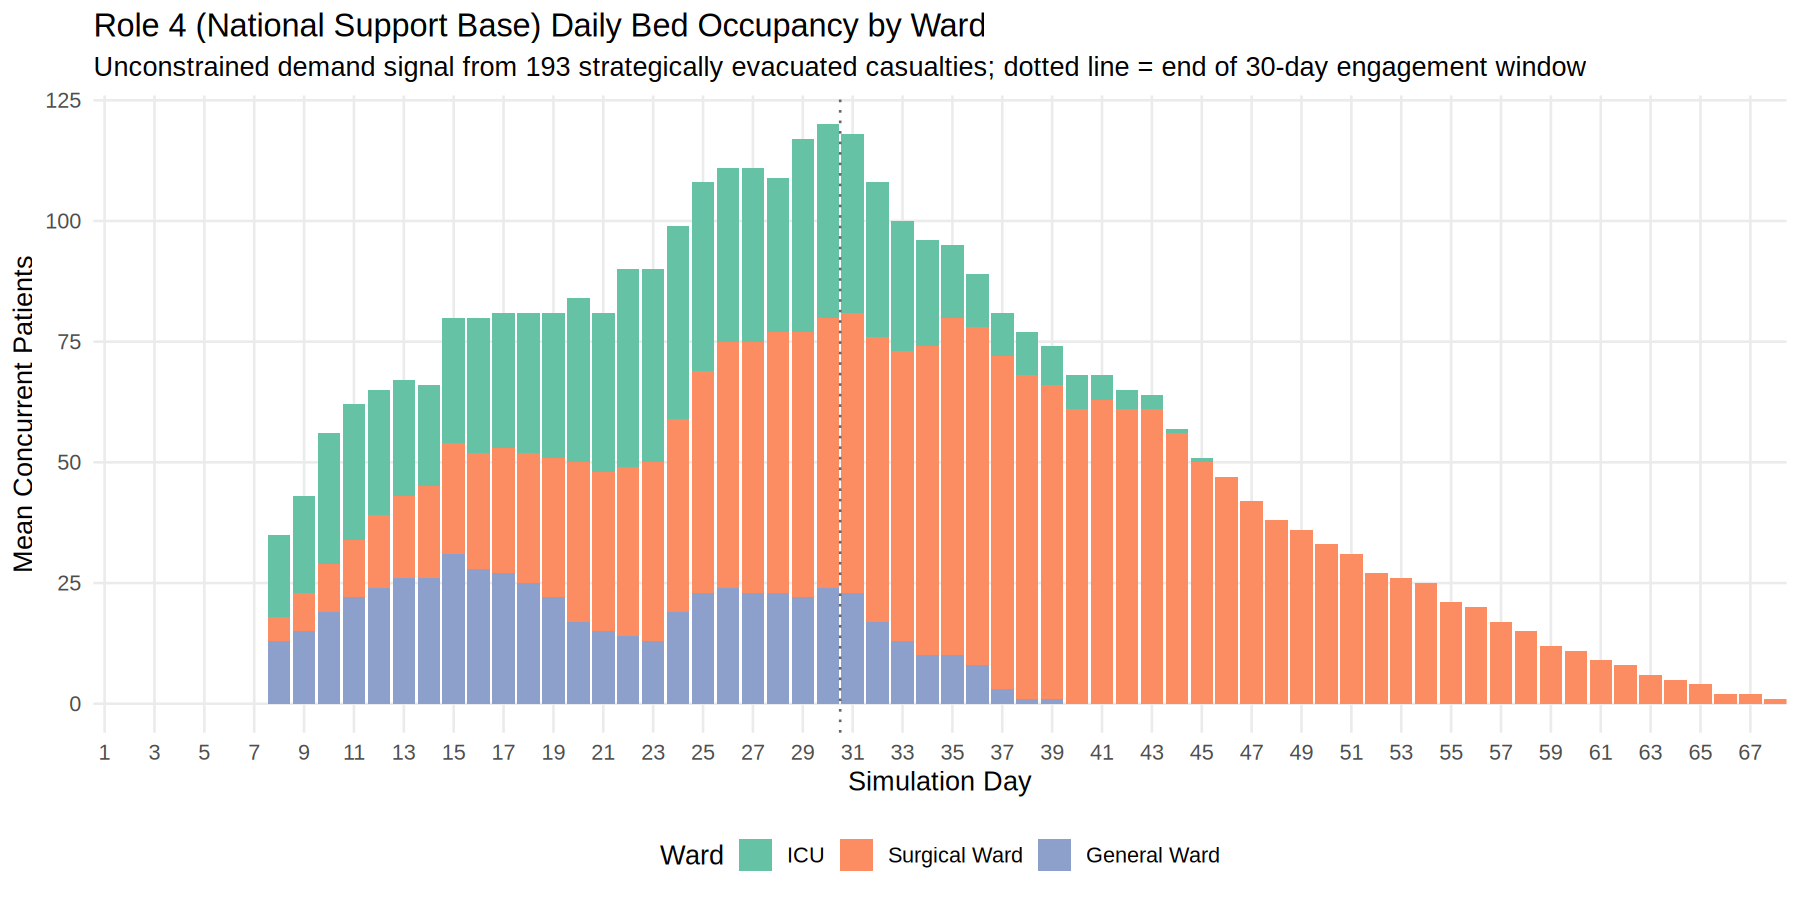
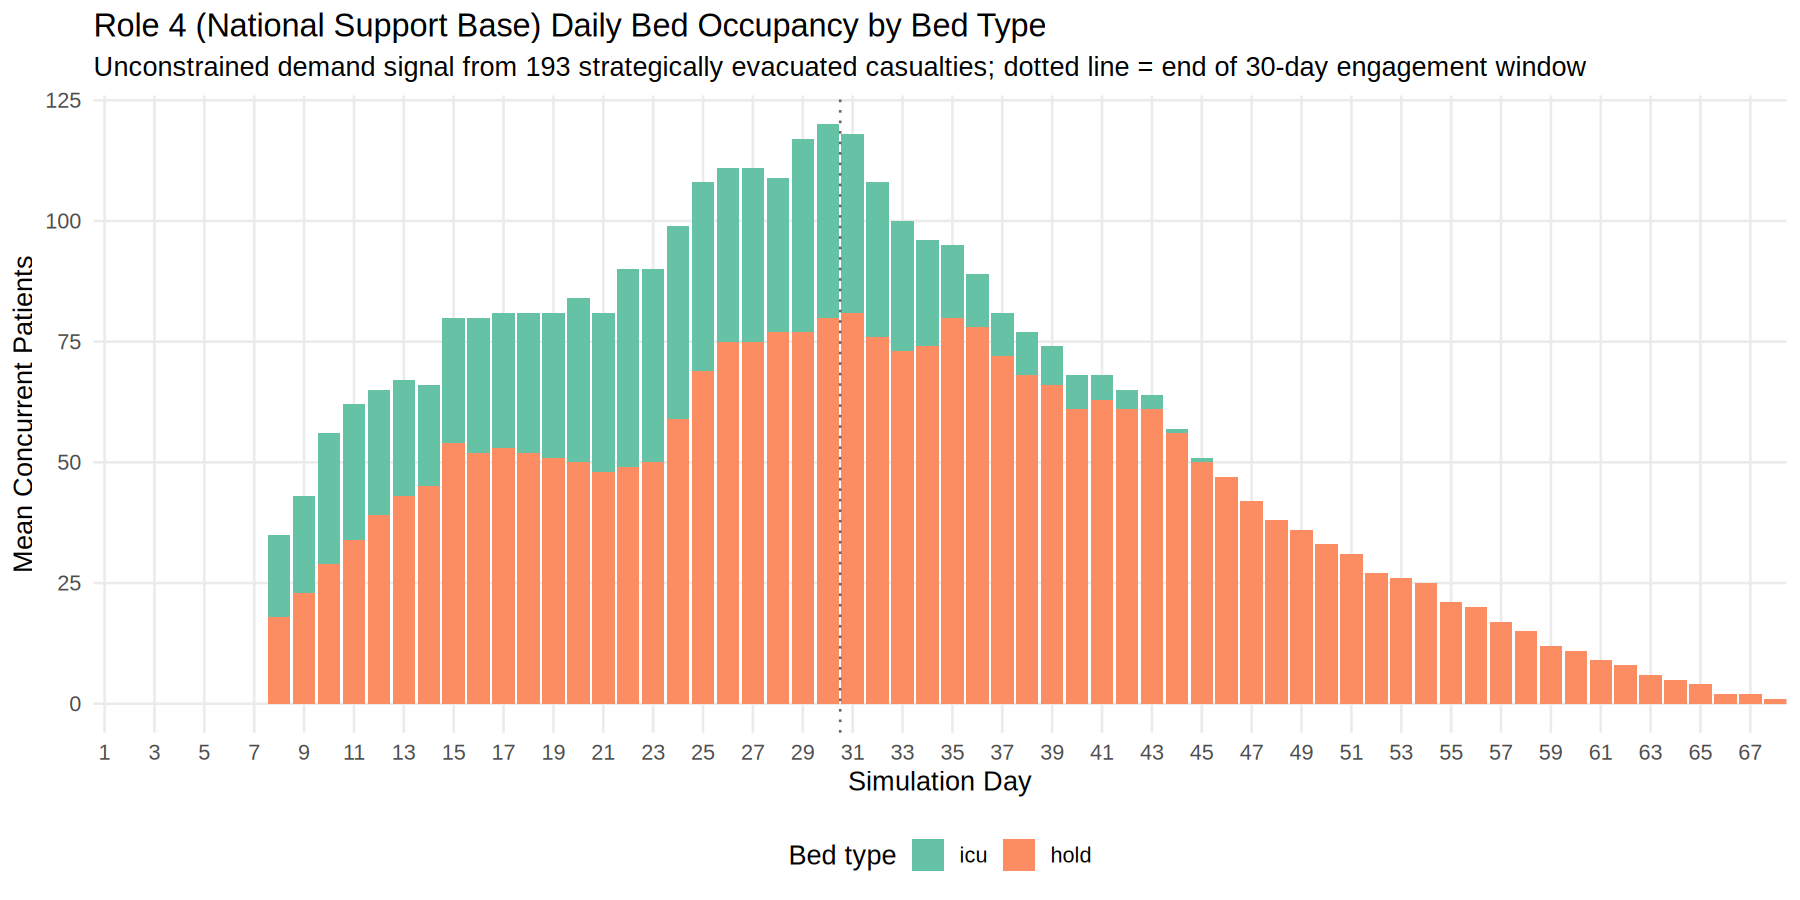
feat(issue-314): report Role 4 demand in the bed types the theatre fields
The Role 4 census reported occupancy under ICU, Surgical Ward and
General Ward. The middle label named a specialty the model does not
represent: evacuation is the last phase of the R2E trajectory, so every
casualty reaching Role 4 has had their definitive repair in theatre and
no surgery happens there. It carried 58.3% of the bed-days.

The census now reports the bed types the deployed echelons field, icu
and hold, rather than a taxonomy of its own. A Role 4 bed sized by this
model is the same kind of bed a forward one is, and naming it otherwise
invites sizing a service rather than an establishment.

Two of the four types the echelons field carry no Role 4 demand and are
absent rather than reported as zero. A casualty arrives by scheduled
sortie having completed post-definitive care, so there is no reception
episode and no resus demand; and no definitive repair is outstanding, so
there is no ot demand. The second absence is a property of the model
rather than of a national support base, which operates on repatriated
casualties repeatedly; L33 records the boundary and #368 tracks it.

Seed-42: intensive care is unchanged at 906 bed-days (25.4%), and the
2,079 surgical and 581 general bed-days collapse into 2,660 holding
(74.6%). The total of 3,566 and the peak of 120.0 are unmoved. The
collapsed distinction rested on a mapping the README recorded as having
no open-access source, so it removed an uncited split rather than
information the model could support.
[…]

Changed region(s): [[0.1244, 0.6222, 0.5911, 0.8089], [0.3733, 0.9333, 0.6844, 0.9956], [0.4978, 0.0, 0.5911, 0.0622]]

diff --git a/README.md b/README.md
@@ -2067,21 +2067,21 @@ When a casualty is assigned to strategic evacuation, the model records the day t
 
 Each evacuated casualty is assigned one of four length-of-stay categories, each a triangular distribution in `env_data.json`. The category sets the Role 4 ward, which R2E bed the casualty occupies while waiting, and which AME pool carries them:
 
-| LoS category    | Assignment criteria                                         | Role 4 ward   | R2E bed while awaiting AME | AME pool       | `env_data.json` key  |
-| --------------- | ----------------------------------------------------------- | ------------- | -------------------------- | -------------- | -------------------- |
-| P1 Surgical     | Priority 1, `treatment_received = 1`                        | ICU           | Hold bed, after a bounded pre-flight ICU period for the ventilated share | `ame_critical` | `los_p1_surgical`    |
-| P1 Non-Surgical | Priority 1, `treatment_received = 0`                        | Surgical Ward | Hold bed                   | `ame`          | `los_p1_nonsurgical` |
-| P2              | Priority 2 (any `treatment_received`)                       | Surgical Ward | Hold bed                   | `ame`          | `los_p2`             |
-| P3 / DNBI       | Priority 3 WIA, or any DNBI casualty regardless of priority | General Ward  | Hold bed                   | `ame`          | `los_p3_dnbi`        |
+| LoS category    | Assignment criteria                                         | Role 4 bed | R2E bed while awaiting AME | AME pool       | `env_data.json` key  |
+| --------------- | ----------------------------------------------------------- | ---------- | -------------------------- | -------------- | -------------------- |
+| P1 Surgical     | Priority 1, `treatment_received = 1`                        | `icu`, stepping down to `hold` | Hold bed, after a bounded pre-flight ICU period for the ventilated share | `ame_critical` | `los_p1_surgical`    |
+| P1 Non-Surgical | Priority 1, `treatment_received = 0`                        | `hold`     | Hold bed                   | `ame`          | `los_p1_nonsurgical` |
+| P2              | Priority 2 (any `treatment_received`)                       | `hold`     | Hold bed                   | `ame`          | `los_p2`             |
+| P3 / DNBI       | Priority 3 WIA, or any DNBI casualty regardless of priority | `hold`     | Hold bed                   | `ame`          | `los_p3_dnbi`        |
 
 Both routes stage in a holding bed, the Casualty Staging Unit equivalent, because every casualty reaching this point has by construction already completed post-operative recovery; the critical and standard split is a distinction in airlift seat type, not in bed type. The exception is the ventilated minority of the critical pool, shipped at 15% and configurable as `critical_hold.ventilated_share`, who genuinely need intensive care up to the point of flight. They hold an ICU bed for 12 to 36 hours, most often 24, and then step down to a holding bed. The bound comes from a deployed intensive care study at Camp Bastion which records that coalition soldiers admitted there "are usually evacuated within 24 h of admission" [[59]](#references); the share itself is an informed estimate, since no open-access source reports what fraction of strategic evacuees require continuing critical care, so uncertainty is high. Were it much larger, R2E ICU would again be consumed by evacuation rather than by treatment. The step-down seizes the holding bed before releasing the ICU bed, so a ventilated casualty is never moved out of intensive care before somewhere exists to move it to; the cost of that ordering is that a saturated holding pool blocks the ICU bed, which is what `ame_icu_hold_minutes` measures.
 
 
-The ward each category is admitted to is configured rather than fixed in code, as `role4.wards` in `env_data.json`, alongside the set of wards the census reports. A stay can also be split between two wards rather than held in one, which is what `role4.icu_continuation` governs. Where it is enabled, a casualty admitted to intensive care has a Role 4 intensive care phase of the whole post-operative requirement less whatever R2E already served, recorded per casualty as `post_definitive_min`, and the step-down ward carries the remainder of the stay. The phase applies to that cohort alone: a casualty whose category is admitted to a surgical or general ward has no intensive care episode to continue, so keeps the whole stay where it was admitted whether or not theatre operated on it. That is the same contract the model already applies forward, where one stabilisation requirement is drawn once and divided between R2B and R2E so that the total cannot depend on the route (see [R2E Heavy Trajectory](#r2e-heavy-trajectory)); Role 4 extends it one echelon further. Because the remainder is taken as a difference rather than drawn, the two phases sum to the drawn length of stay exactly, and a casualty theatre never operated on has no episode to continue and so keeps the whole stay on its admission ward.
+The bed each category is admitted to is configured rather than fixed in code, as `role4.wards` in `env_data.json`, alongside the set of bed types the census reports. Those are the bed types the deployed echelons field, `icu` and `hold`, rather than a taxonomy of its own: a Role 4 bed sized by this model is the same kind of bed a forward one is, and naming it otherwise would invite sizing a service rather than an establishment. Two of the four types the echelons field carry no Role 4 demand here and are therefore absent rather than reported as zero. A casualty arrives by scheduled sortie having completed post-definitive care, so the model gives Role 4 no reception episode and no `resus` demand; and it performs no surgery there, every definitive repair being completed in theatre before evacuation, so there is no `ot` demand either. That second absence is a property of the model rather than of a national support base, which in practice operates on repatriated casualties repeatedly; Further Development L33 records the boundary it follows from. A stay can also be split between two bed types rather than held in one, which is what `role4.icu_continuation` governs.
 
 The shipped requirement is 1 day at minimum, 4 most often and 21 at maximum, a mean of 8.7 days, and it is calibrated rather than assumed. Johnston, Henning and Harrison report a mean Level 3 intensive care stay of 7.6 days across 570 admissions of 527 UK service personnel repatriated to a Role 4 facility between 2007 and 2013 [[61]](#references), which is the Role 4 portion of the episode directly. Theatre serves a mean of 1.08 days of it before the casualty travels, that being the mean of the post-definitive distribution above, so the total is the sum of the two and the model reproduces the source figure after the deduction. Three limitations attach. The source is a conference abstract rather than a full paper, so it reports the means without the case mix behind them. The triangular form cannot reproduce the reported spread, an SD of 11.6 days against a mean of 7.6, so the long tail of very protracted stays is truncated at 21 days and the model will understate the small number of casualties who occupy an intensive care bed for months. And the source's Level 2 figure of 2.0 days has no counterpart here, the model giving the surgical ward cohort no critical care phase at all, so their requirement is carried as ward time instead. A casualty admitted to intensive care does not hold that bed for the whole of its length of stay. The model serves the intensive care the casualty is still owed and then steps it down to a surgical ward for the remainder, so the reported intensive care demand is an estimate of the critical care requirement rather than a count of everyone who ever needed it. That matters because intensive care is the scarcest and most expensive part of a national support base establishment, and a ward split that held every Priority 1 surgical casualty in an intensive care bed for a stay of up to 45 days would overstate it several times over: at seed 42 the same casualties account for 25.4% of Role 4 bed-days under the step-down against 75.6% without it. The step-down applies to the intensive care cohort alone, a casualty admitted to a surgical or general ward having no critical care phase to divide, and it is a separate mechanism from the pre-flight step-down described below, which moves a ventilated casualty from an intensive care bed to a holding bed at R2E before the flight rather than after it. Further Development L33 records the related boundary that the model still does not cross.
 
-Two parts of this mapping are informed estimates rather than sourced rules. DNBI casualties take the P3/DNBI category and general ward whatever their in-theatre priority, treating disease, non-battle injury and battle fatigue as lower-acuity for national length-of-stay purposes, consistent with how the model already handles DNBI sub-types elsewhere. Priority 2 casualties take the surgical ward whether or not they were operated on in theatre, on the assumption they need continuing surgical-specialty management, which follows the severity gradient described in [[35]](#references). No open-access source tabulates ward assignment by this scheme, so uncertainty is high. A different mapping would move occupancy between the surgical and general wards without changing total Role 4 bed-days, and would change which R2E bed type evacuees hold while waiting; ICU occupancy is the least affected, since only Priority 1 surgical casualties reach it.
+The mapping rests on one judgement rather than a source: that a casualty who was not operated on in theatre needs no intensive care at the national support base, whatever their in-theatre priority. Priority 1 non-surgical, Priority 2 and Priority 3 and DNBI casualties therefore all take a holding bed, and only the operated Priority 1 cohort reaches intensive care. No open-access source tabulates bed assignment by this scheme, so uncertainty is high. The earlier mapping distinguished a surgical from a general ward within that holding group, which moved occupancy between two labels on an uncited basis and without changing total Role 4 bed-days; collapsing them onto the holding bed the echelons already field removes a distinction the model had no evidence for. Intensive care occupancy is unaffected by the change, since only Priority 1 surgical casualties ever reached it.
 
 The four length-of-stay distributions, in days, are 10/21/45, 7/14/30, 5/10/21 and 2/5/14 for minimum, most likely and maximum. They are informed estimates reflecting a severity gradient, longest for Priority 1 surgical casualties and shortest for DNBI, directionally consistent with the length-of-stay patterns in [[35]](#references) but not extracted from its tables, so uncertainty is high. Peak Role 4 occupancy and total bed-days scale roughly linearly with these values, so an error biases the figure reported to national planners, but nothing in theatre is affected, since the census is computed downstream of all in-theatre logic.
 
@@ -2238,7 +2238,7 @@ The p90 carries no such horizon, being a point on the curve rather than an area 
 
 ### Domain 7 — Strategic Evacuation and National Support Base Demand
 
-**Role 4 Daily Bed Occupancy by Ward.** Mean concurrent Role 4 (national support base) patients by ward category (ICU, Surgical Ward, General Ward) per simulation day, derived from strategically evacuated casualties' assigned length-of-stay, admitted from the day of *actual* AME departure (`evacuation_day`), not the day the evacuation decision was made (see [Role 4 (National Support Base) Demand Modelling](#role-4-national-support-base-demand-modelling)).
+**Role 4 Daily Bed Occupancy by Bed Type.** Mean concurrent Role 4 (national support base) patients by bed type (`icu`, `hold`) per simulation day, derived from strategically evacuated casualties' assigned length-of-stay, admitted from the day of *actual* AME departure (`evacuation_day`), not the day the evacuation decision was made (see [Role 4 (National Support Base) Demand Modelling](#role-4-national-support-base-demand-modelling)).
 
 - **Doctrinal basis:** AJP-4.10 [[34]](#references) mandates that Role 4 requirements be derived from theatre casualty estimates.
 - **Criteria:** C2, C3, C5

diff --git a/docs/Single_Run_Analysis.md b/docs/Single_Run_Analysis.md
@@ -304,11 +304,11 @@ Both pools shrank, losses outrunning the sum of returns to duty and reinforcemen
 
 **Strategic evacuation cleared completely in this run, and the R2E holding beds it would otherwise have occupied stayed free for clinical use.** Of the 495 casualties generated, 193 reached the strategic evacuation decision, and all 193 boarded a sortie and reached Role 4 within the 30 days, none left waiting when the run ended. Each sortie carries the Royal Australian Air Force's published C-17A aeromedical evacuation fit of 36 high dependency and 54 ambulatory places [[15]](#references) (see README [Role 4 (National Support Base) Demand Modelling](../README.md#role-4-national-support-base-demand-modelling)). The shipped sortie cancellation probability is zero, so all four scheduled sorties flew; that setting reflects the model's scope, which is to set the demand the land-based trauma system places on strategic evacuation rather than to simulate the reliability of the airlift meeting it, and what the assumption is worth is measured across replications in [Strategic Airlift Reliability Is Assumed, and the Assumption Is Load-Bearing](Multi_Run_Analysis.md#strategic-airlift-reliability-is-assumed-and-the-assumption-is-load-bearing).
 
-![Stacked bar chart of daily Role 4 bed occupancy split across intensive care, surgical and general wards, flat at zero until day 8, rising to about a hundred and twenty concurrent patients on day 30, then decaying to near zero by day 68, with the surgical ward the largest band throughout and intensive care about a quarter of the total, and a dotted line marking the end of the 30-day engagement window](../images/role4_census.png)
+![Stacked bar chart of daily Role 4 bed occupancy split between intensive care and holding beds, flat at zero until day 8, rising to about a hundred and twenty concurrent patients on day 30, then decaying to near zero by day 68, with holding beds about three quarters of the total throughout and intensive care the remainder, and a dotted line marking the end of the 30-day engagement window](../images/role4_census.png)
 
 Occupancy was zero until day 8, because the first sortie flies on day 7. It then climbed to a peak of 120.0 patients across all wards on day 30, the campaign's last day. The plot continues past the engagement window, marked by the dotted line, because patients stay well beyond the campaign horizon: the census falls back below one only around day 68. That whole tail is demand the national support base carries after the theatre has stopped producing casualties, and a planner sizing the base should note that it peaks after the campaign ends rather than during it. The peak follows the number of evacuation decisions rather than anything about Role 4 itself, which the model treats as unlimited demand rather than as a capacity.
 
-**A quarter of that demand is for intensive care, and the composition matters more to a planner than the total.** Across the run the census divides into 906 intensive care bed-days (25.4%), 2,079 surgical ward (58.3%) and 581 general ward (16.3%). A casualty admitted to intensive care does not stay there: the model serves the post-operative critical care requirement theatre did not, a mean of 7.1 days in this run against the 7.6 reported for repatriated battle casualties at a Role 4 facility, and steps the casualty down to a surgical ward for the remainder of the stay (see README [Role 4 (National Support Base) Demand Modelling](../README.md#role-4-national-support-base-demand-modelling)). The total and the peak are unaffected by that split, both being properties of how many casualties arrive and how long they stay rather than of which bed they occupy. Intensive care is the scarcest and most expensive part of a national support base establishment, so the quarter share is the figure a sizing decision turns on, and it rests on a calibration to a single conference abstract rather than on a distribution fitted to case-level data.
+**A quarter of that demand is for intensive care, and the composition matters more to a planner than the total.** Across the run the census divides into 906 intensive care bed-days (25.4%) and 2,660 holding bed-days (74.6%), reported in the same bed types the deployed echelons field rather than in a taxonomy of Role 4's own. A casualty admitted to intensive care does not stay there: the model serves the post-operative critical care requirement theatre did not, a mean of 7.1 days in this run against the 7.6 reported for repatriated battle casualties at a Role 4 facility, and steps the casualty down to a holding bed for the remainder of the stay (see README [Role 4 (National Support Base) Demand Modelling](../README.md#role-4-national-support-base-demand-modelling)). The total and the peak are unaffected by that split, both being properties of how many casualties arrive and how long they stay rather than of which bed they occupy. Intensive care is the scarcest and most expensive part of a national support base establishment, so the quarter share is the figure a sizing decision turns on, and it rests on a calibration to a single conference abstract rather than on a distribution fitted to case-level data.
 
 ![Two step plots of the number of casualties awaiting a strategic evacuation sortie over the run, one for the critical route and one for the standard route, both rising between sorties and falling to zero each time one flies](../images/ame_backlog.png)
 

diff --git a/CLAUDE.md b/CLAUDE.md
@@ -613,7 +613,7 @@ These are the validated baseline values from the current single-run analysis. Re
 | R2E post-definitive care pathway (seed 42) | icu=56, hold=114 — 33% of operated casualties receive post-definitive care in an ICU bed, the remainder taking the degraded holding-bed fallback. The 50-replication ICU share is 39.3% (95% CI [36.3%, 42.3%]) |
 | R2E post-op DOW rate — icu vs hold (seed 42) | 0/74 vs 0/57 (single-run). The saturated-ICU 90-day stress test from Issue #43, which confirmed the mechanism fires with the hold pathway riskier than the icu pathway, has not been re-run since |
 | Role 4 demand (seed 42) | 193 strategic evacuation decisions (125 critical route, 68 standard); all 193 boarded and reached Role 4 by day 30, none left queued at R2E; Role 4 peak occupancy 120.0 concurrent patients on day 30, the campaign's last day, decaying below one around day 68 |
-| Role 4 ward composition (seed 42) | 906 intensive care bed-days (25.4%), 2,079 surgical ward (58.3%) and 581 general ward (16.3%). A casualty admitted to intensive care is served the requirement theatre did not, a mean of 7.1 days here against the 7.6 the calibrating source reports, then steps down to a surgical ward. The peak and the total bed-days are unaffected by the split, both being properties of arrivals and stay length rather than of ward |
+| Role 4 bed composition (seed 42) | 906 intensive care bed-days (25.4%) and 2,660 holding bed-days (74.6%), reported in the bed types the deployed echelons field. A casualty admitted to intensive care is served the requirement theatre did not, a mean of 7.1 days here against the 7.6 the calibrating source reports, then steps down to a holding bed. The peak and the total bed-days are unaffected by the split, both being properties of arrivals and stay length rather than of bed type. No `resus` or `ot` demand is reported: the model gives Role 4 no reception episode and performs no surgery there (README Further Development L33) |
 | Strategic AME actual performance (seed 42) | C-17A Globemaster III at 36 critical / 54 standard places; all four scheduled sorties flew, `failure_probability` shipping at 0, and 193 evacuated at a mean wait of 1.0 days (p10-p90 0.0-4.0). Nothing is left queued, so the strategic evacuation backlog that earlier baselines carried does not form at all |
 | AME wait-time DOW poll (seed 42) | `dow_echelon=5`, daily poll interval (`role4.ame.dow_check_interval = 1440` min); 0 deaths observed, as in every run since the poll was added; see README [AME Wait Checkpoint](README.md#ame-wait-checkpoint) for why no single-run count should be read as evidence about the mechanism's magnitude |
 
